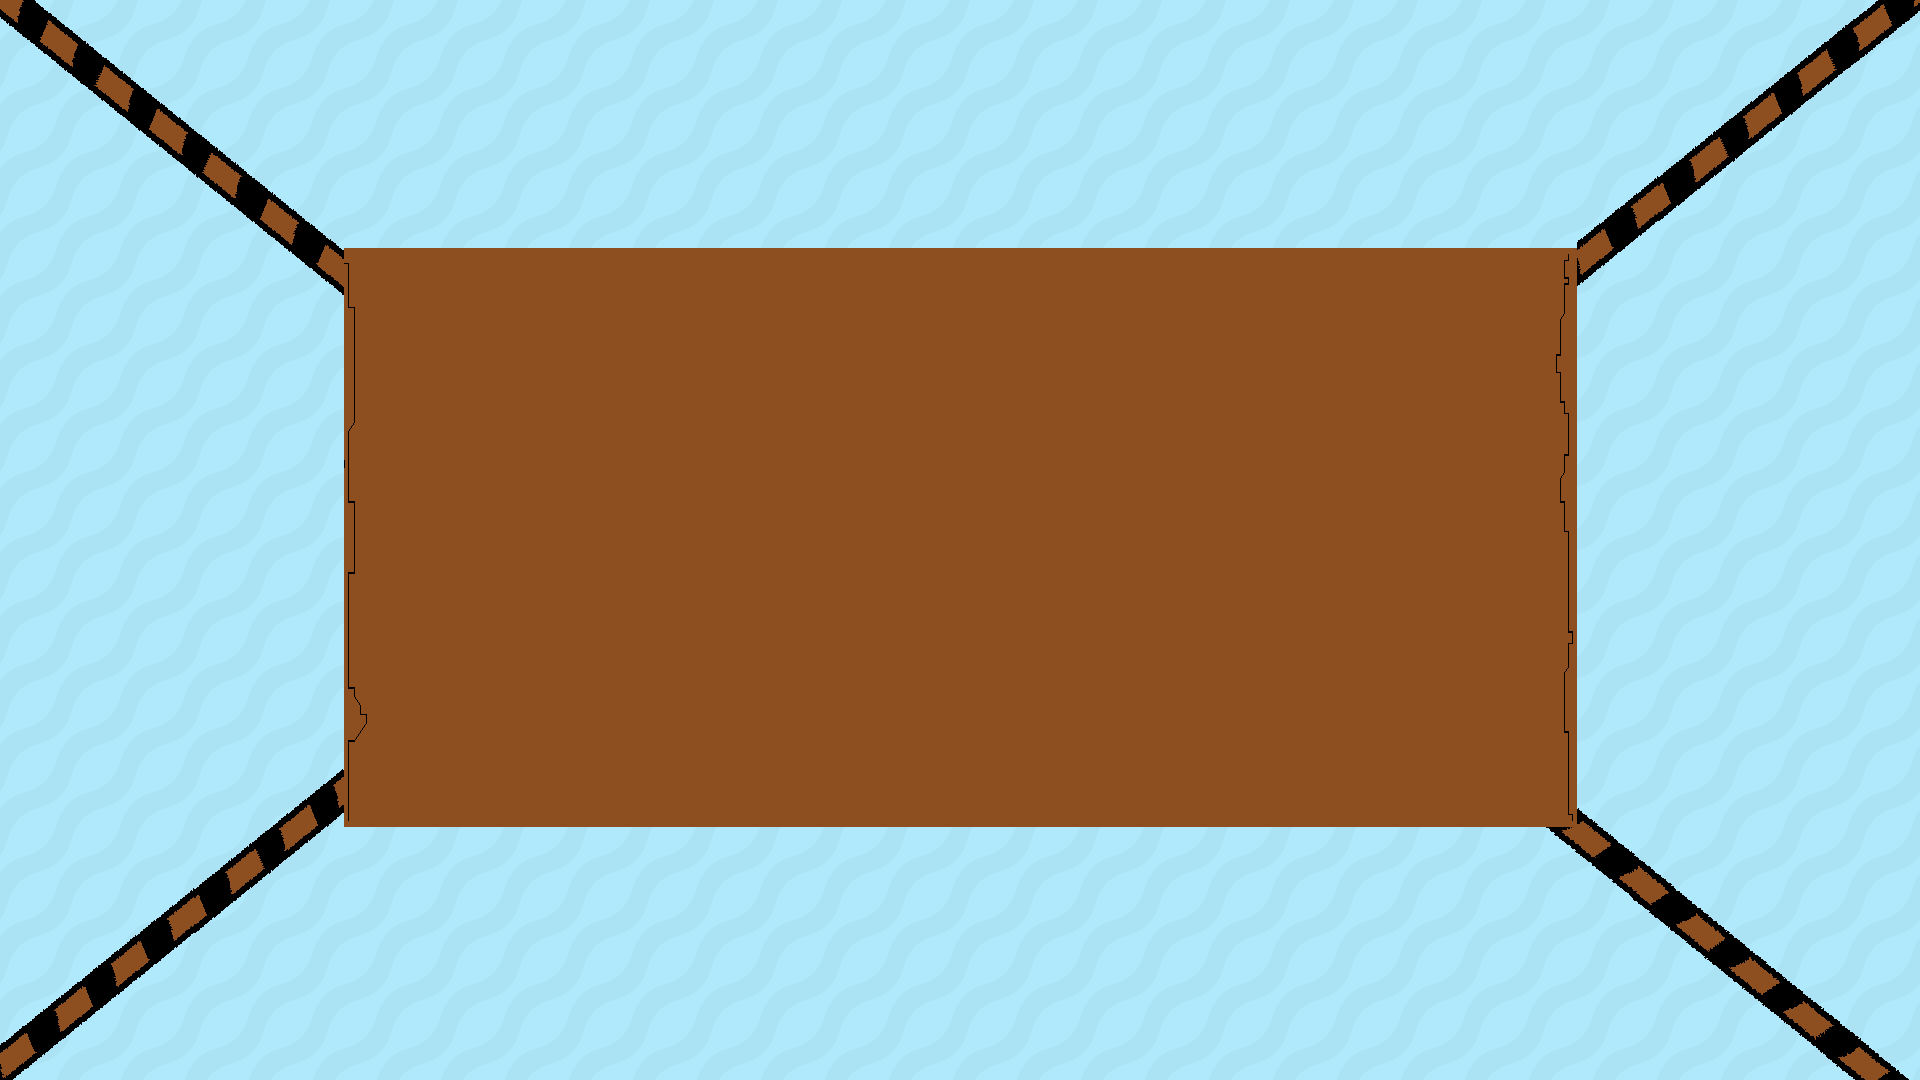
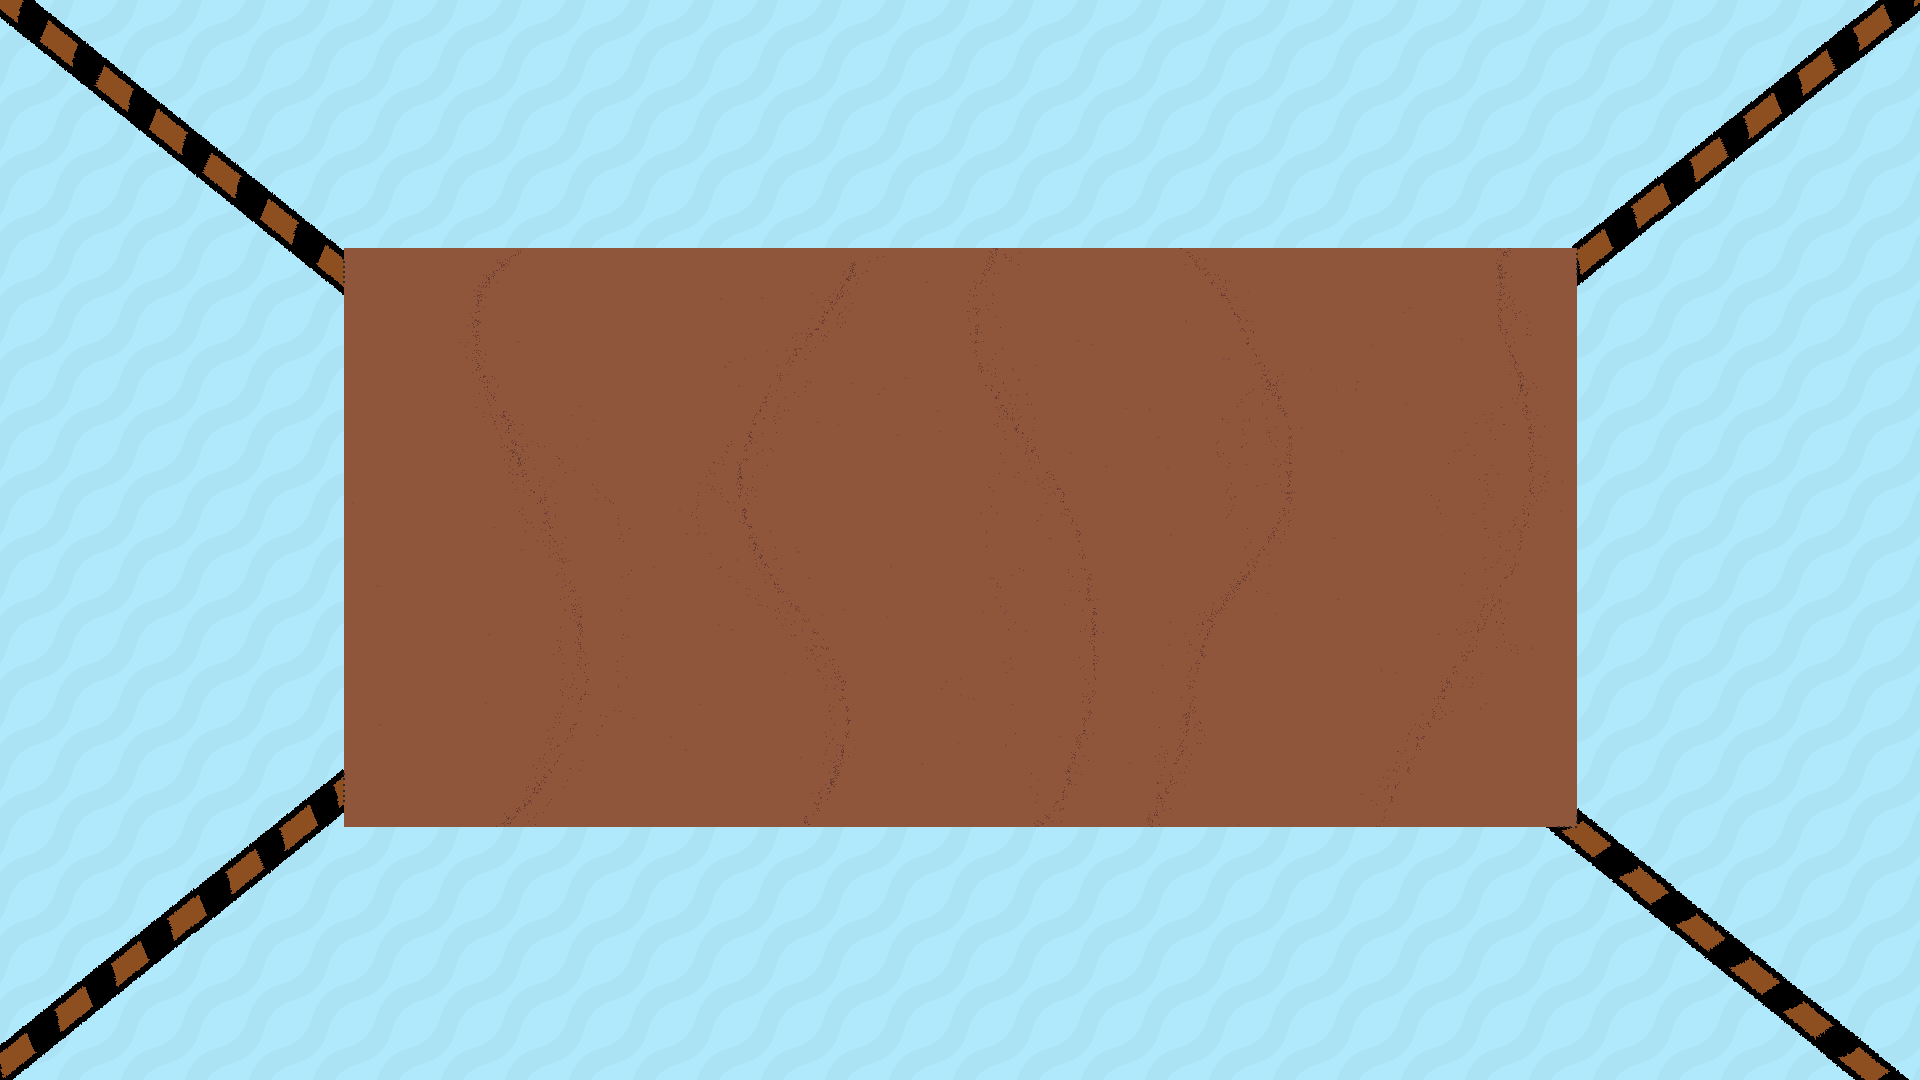
Options background and change of graphics

diff --git a/core/src/com/mygdx/pirategame/Menu/Options.java b/core/src/com/mygdx/pirategame/Menu/Options.java
@@ -3,6 +3,7 @@ package com.mygdx.pirategame.Menu;
 import com.badlogic.gdx.Gdx;
 import com.badlogic.gdx.Screen;
 import com.badlogic.gdx.graphics.GL20;
+import com.badlogic.gdx.graphics.Texture;
 import com.badlogic.gdx.scenes.scene2d.Actor;
 import com.badlogic.gdx.scenes.scene2d.Event;
 import com.badlogic.gdx.scenes.scene2d.EventListener;
@@ -22,6 +23,7 @@ public class Options implements Screen {
     private final com.mygdx.pirategame.PirateGame PirateGame;
     private final Screen parent;
     private final Stage stage;
+    Texture background = new Texture(Gdx.files.internal("WoodBackground.png"));
 
     /**
      * Instantiates a new Options screen
@@ -155,6 +157,9 @@ public class Options implements Screen {
         Gdx.gl.glClearColor(0f, 0f, 0f, 1);
         Gdx.gl.glClear(GL20.GL_COLOR_BUFFER_BIT);
         stage.act(Math.min(Gdx.graphics.getDeltaTime(), 1 / 30f));
+        stage.getBatch().begin();
+        stage.getBatch().draw(background, 0, 0, Gdx.graphics.getWidth(), Gdx.graphics.getHeight());
+        stage.getBatch().end();
         stage.draw();
 
 
